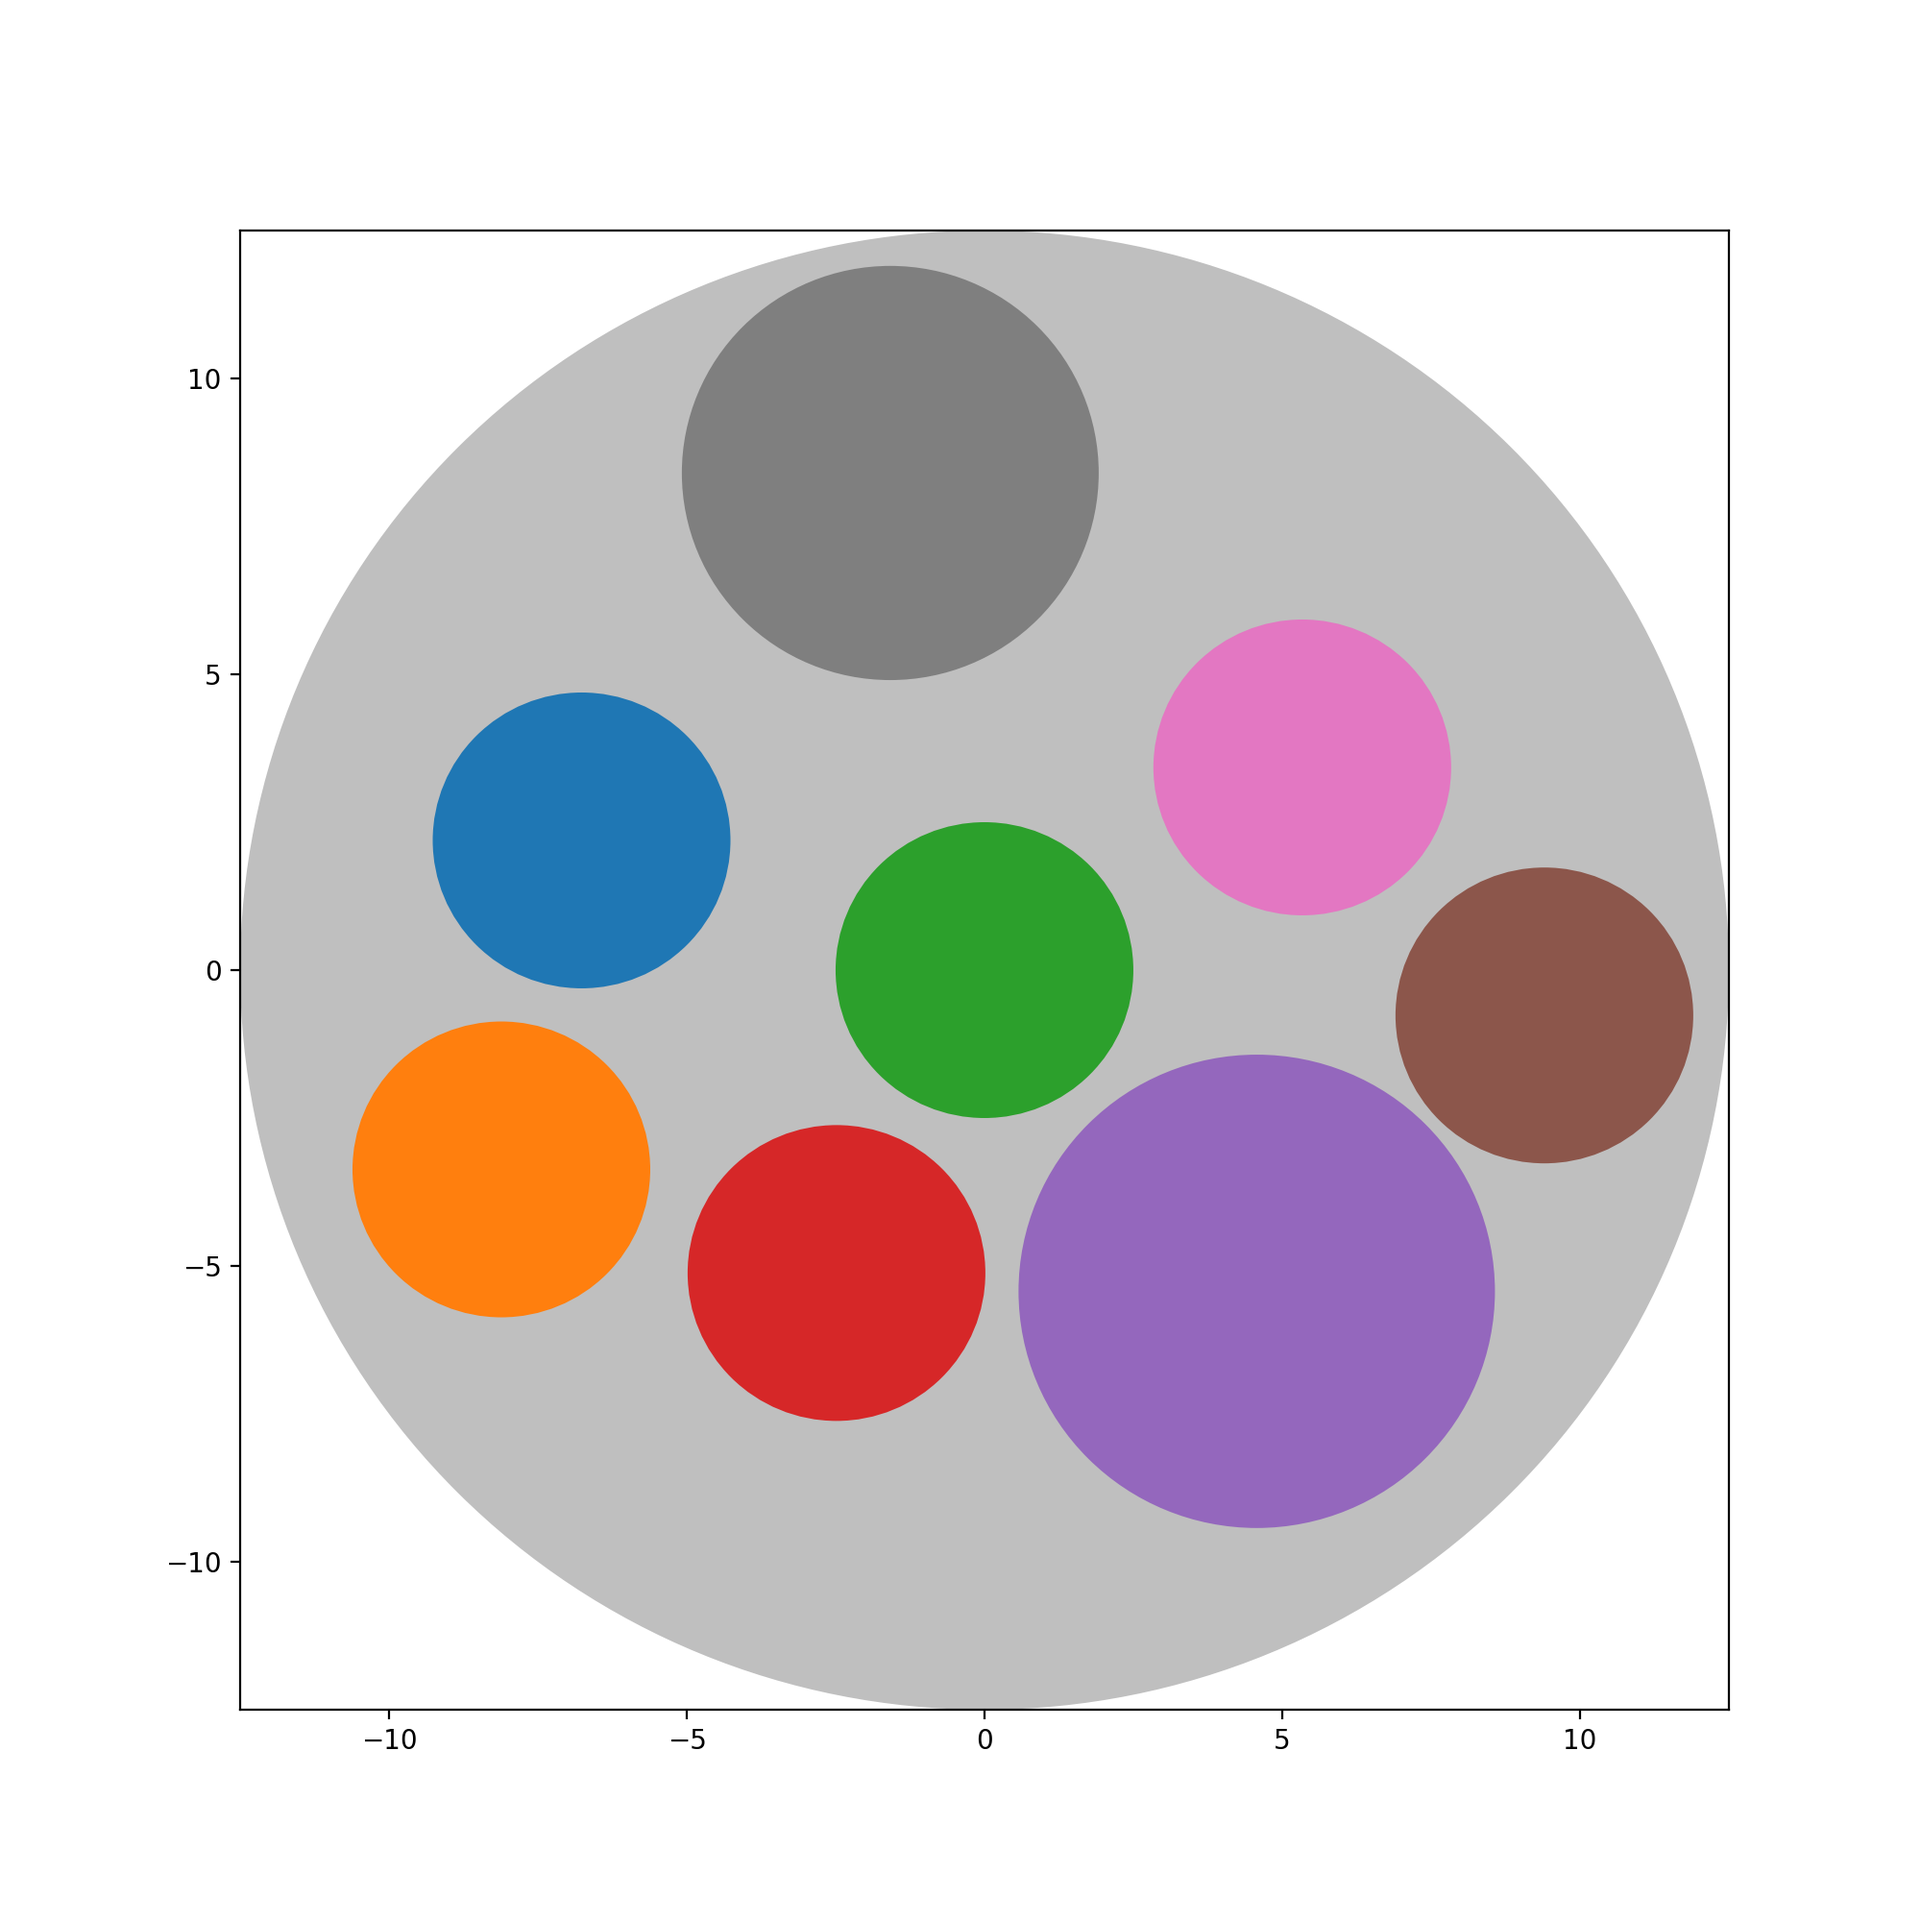
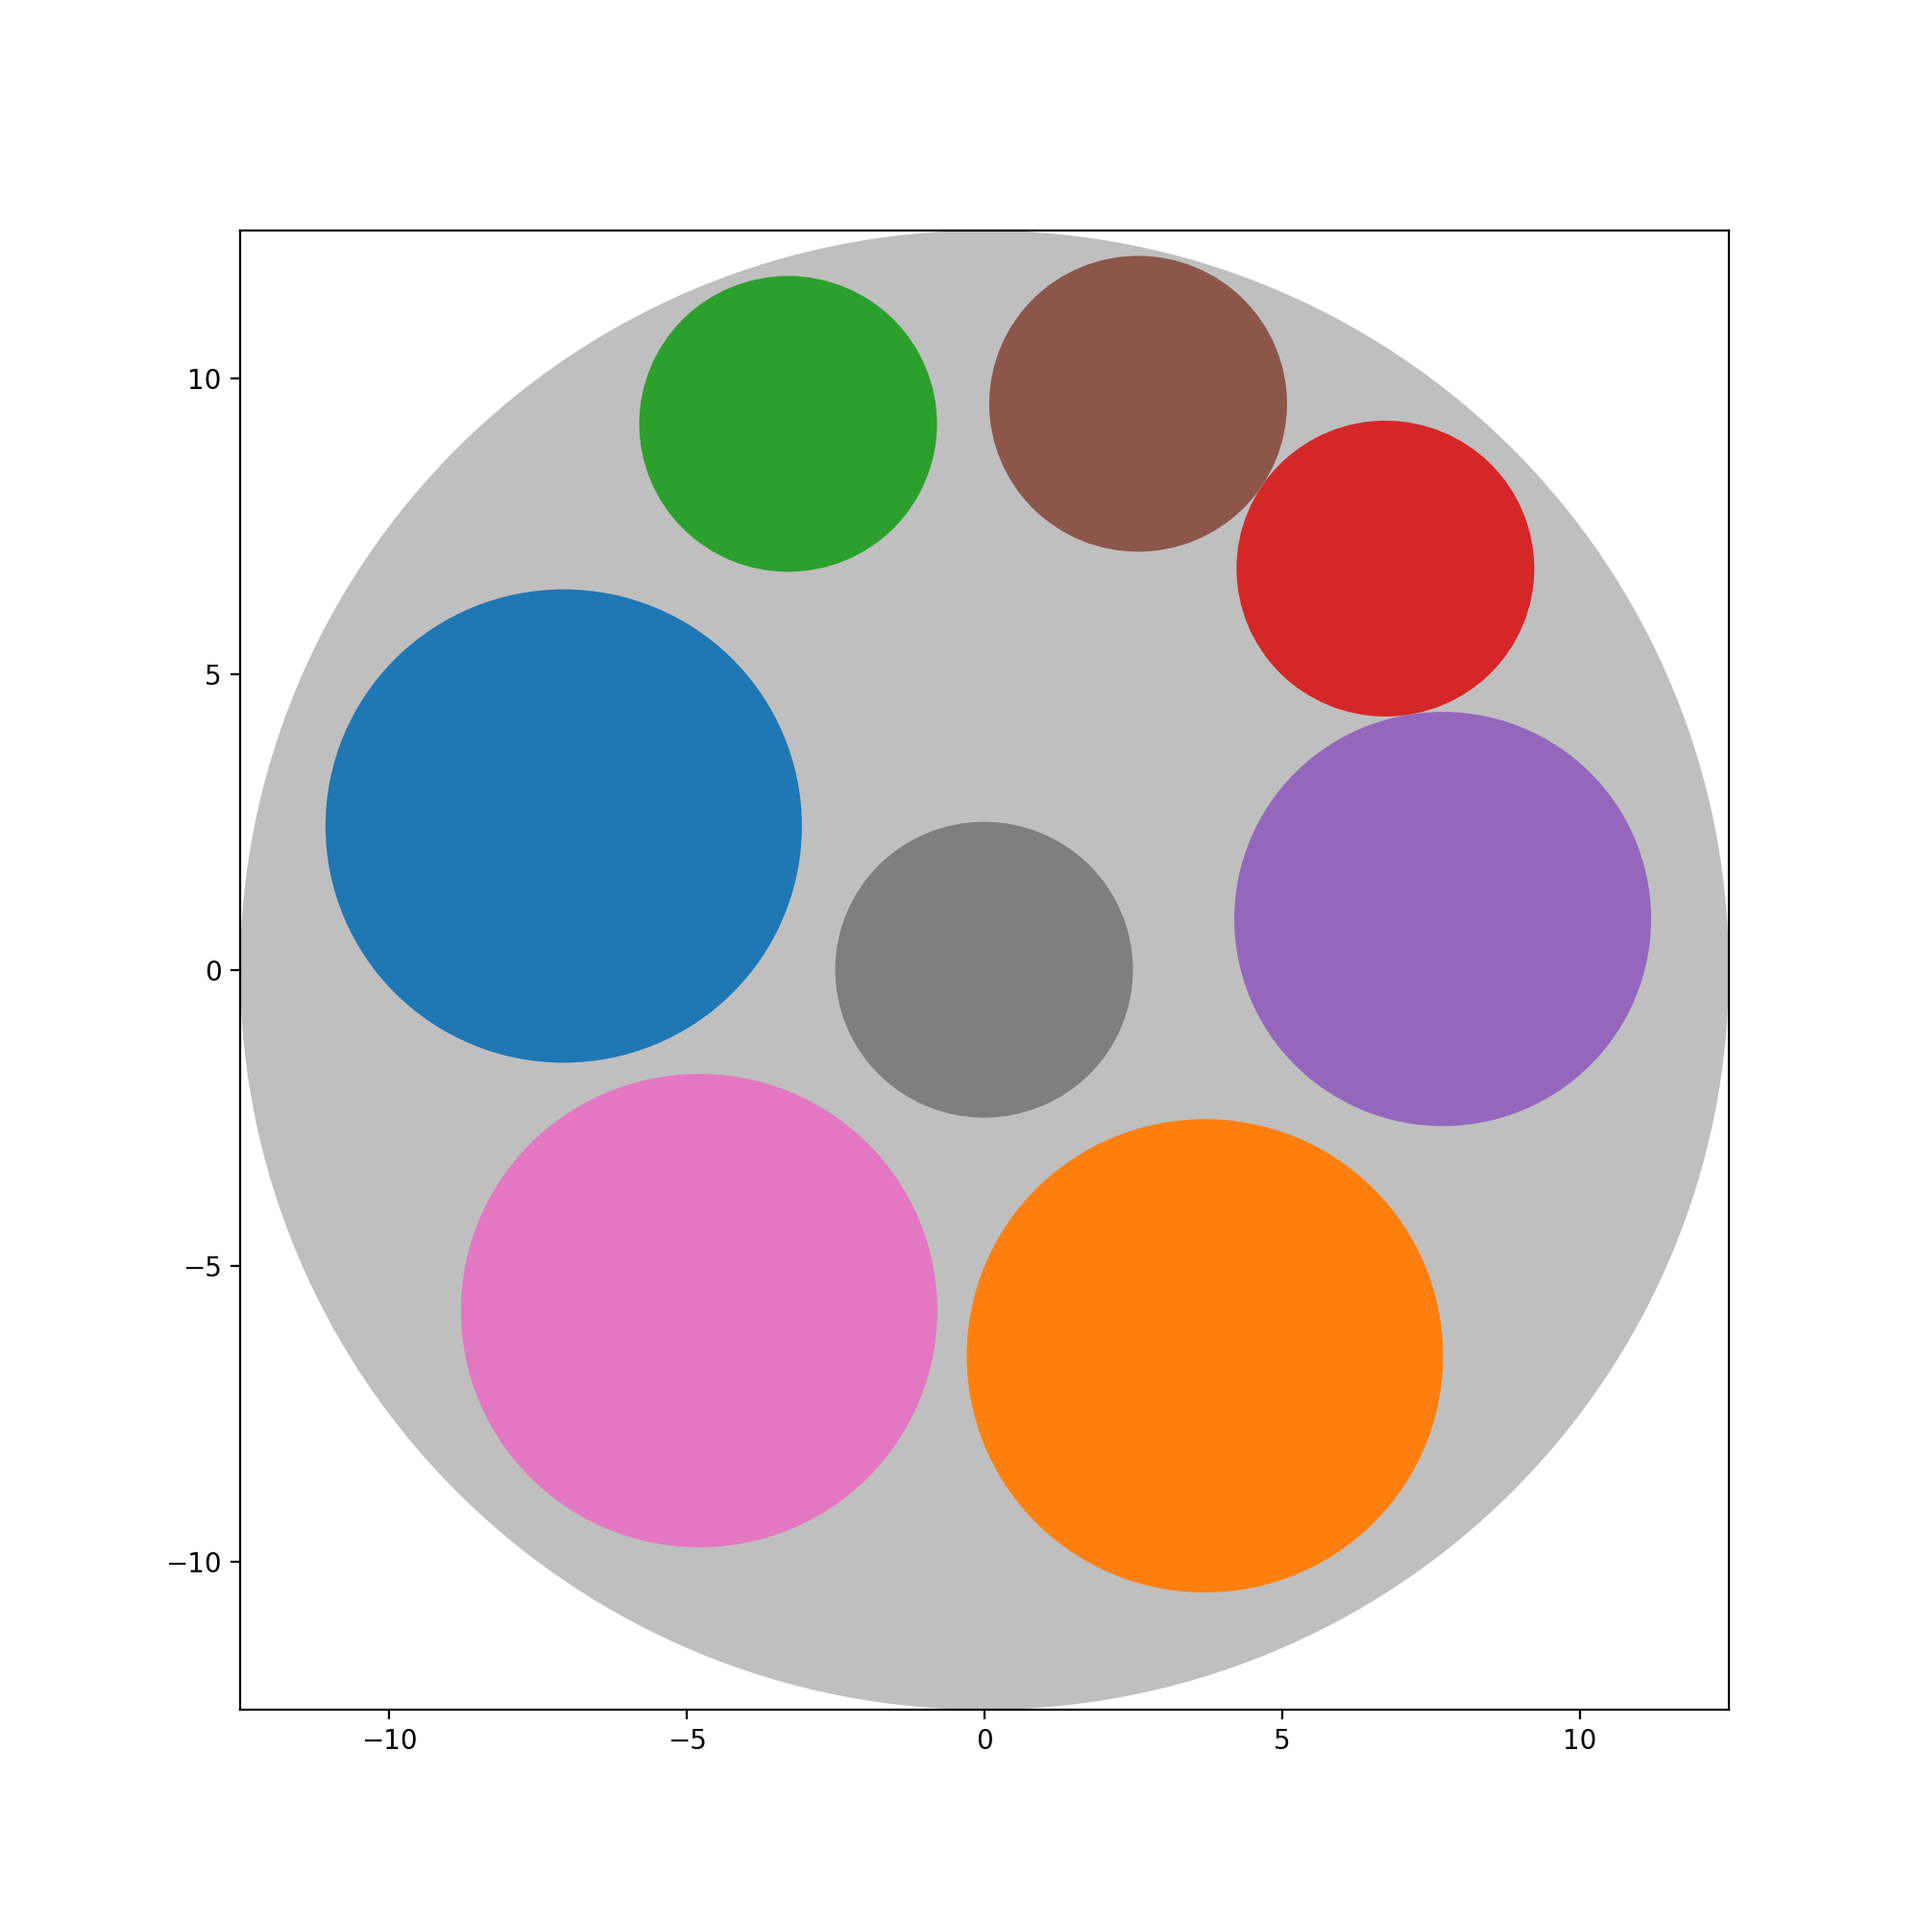
New capillary function

Changed region(s): [[0.155, 0.124, 0.899, 0.837]]

diff --git a/main.py b/main.py
@@ -6,6 +6,10 @@ from matplotlib.patches import Circle
 
 from copy import deepcopy
 
+epsilon = 1e-8
+polar_to_cartesian = lambda r, t: np.array([r*np.cos(t), r*np.sin(t)])
+
+
 class Ring:
 	def __init__(self, outer_diameter, inner_diameter):
 		self.outer_diameter = outer_diameter
@@ -200,7 +204,7 @@ def closest_capillary(index, capillary_list):
 
 def cost_function(outer_capillary, capillary_list):
 	penalty_cost = 1000
-	reward_mult = 70*len(capillary_list)
+	reward_mult = 80*len(capillary_list)
 	cost = 0
 	for i, c in enumerate(capillary_list):
 		cost -= c.ratio*reward_mult
@@ -215,14 +219,16 @@ def cost_function(outer_capillary, capillary_list):
 				cost+=penalty_cost
 	return cost
 
+
 def annealing_packing(outside_diameter, diameter_df, must_have=None,
-					  temp=1e5, min_temp=1e-10, cool_rate=0.999,
+					  temp=1e5, min_temp=1e-10, cool_rate=0.9999,
 					  max_iter=100000, cooling_type='exp'):
 
 	T_start = temp
 
 	diameter_df['Ratio'] = diameter_df['Internal Diameter'] / diameter_df['External Diameter']
 	diameter_df.sort_values(by='Ratio', ascending=False)
+	N_diameters = diameter_df.shape[0]
 
 	lesser_diameter = np.min(diameter_df['External Diameter'])
 	greater_diameter = np.max(diameter_df['External Diameter'])
@@ -247,20 +253,129 @@ def annealing_packing(outside_diameter, diameter_df, must_have=None,
 		return c_list[index]
 			
 	def change_diameter(index, c_list):
-		diameter_index = np.random.randint(len(diameter_df))
+		diameter_index = np.random.randint(N_diameters)
 		c_list[index].inner_diameter = diameter_df.iloc[diameter_index]['Internal Diameter']
 		c_list[index].outer_diameter = diameter_df.iloc[diameter_index]['External Diameter']
 		return c_list[index]
 
 	def new_capillary(c_list):
-		position = random_circular_position(position_diameter)
-		d_index = np.random.randint(len(diameter_df))
-		df_line = diameter_df.iloc[d_index]
+		# The only possible pivot capillary is the outside one
+		if len(c_list) == 0:
+			d_index = np.random.randint(0, N_diameters)
+			df_line = diameter_df.iloc[d_index]
+			angle = np.random.random()*2*np.pi
+			r = 0.5*(outside_diameter - df_line['External Diameter'])
+			position = polar_to_cartesian(r, angle)
+			c = Capillary(position_x=position[0], position_y=position[1],
+						outer_diameter=df_line['External Diameter'], inner_diameter=df_line['Internal Diameter'])
+			c_list.append(c)
+			return True
+
+		good_pivots = False
+		# Tries a limited number of times to find pivots that allow for new capillaries
+		for i in range(20):
+			if good_pivots: break
+
+			# Chooses 2 pivot capillaries for the new one to be tangential to 
+			pivot_indexes = np.random.choice(np.arange(len(c_list)+1), 2, replace=False)
+			# The outer one is special as all capillaries are inside it instead of outside
+			has_outside = len(c_list) in pivot_indexes
+			# Ensures the outside one is on the zero index so we don't need to code both cases
+			if pivot_indexes[1] == len(c_list):
+				pivot_indexes = [pivot_indexes[1], pivot_indexes[0]]
+
+			if has_outside:
+				pivots = [outer_capillary, c_list[pivot_indexes[1]]]
+			else:
+				pivots = [c_list[i] for i in pivot_indexes]
+
+			pivot_distance = np.linalg.norm(pivots[0].position - pivots[1].position)
+			
+			# Handles the case of a capillary in the middle and the outer capillary being chosen together
+			if pivot_distance < epsilon:
+				continue
+
+			if has_outside:
+				pivot_wall_distance = -pivot_distance + 0.5*(outside_diameter - pivots[1].outer_diameter)
+			else:
+				pivot_wall_distance = pivot_distance - 0.5*(pivots[0].outer_diameter + pivots[1].outer_diameter)
+
+			if pivot_wall_distance <= greater_diameter + epsilon:
+				good_pivots = True
+		if not good_pivots:
+			return False
+
+		# Filters only sufficient capillary diameters
+		limited_df = diameter_df[diameter_df['External Diameter'] >= pivot_wall_distance]
+		N_limited_df = limited_df.shape[0]
+
+		d_index_order = np.random.choice(np.arange(N_limited_df), N_limited_df, replace=False)
+		d_index = 0
+		bad_position = True
+		while bad_position:
+			# Fails to add a new capillary for this pivot
+			if d_index >= N_limited_df: return
+
+			df_line = diameter_df.iloc[d_index]
+			out_d = df_line['External Diameter']
+
+			max_pos_r = 0.5*(outside_diameter - out_d)
+
+			R = [0.5*(p.outer_diameter + out_d) for p in pivots]
+			if has_outside:
+				R[0] = 0.5*(outside_diameter - out_d)
+
+			# Calculates the position of intersection for two circles in the X axis
+			#	with the same radii as the pivots+the chosen capillary
+			x_prime2 = (pivot_distance**2 - R[1]**2 + R[0]**2) / (2*pivot_distance)
+			y_prime2_squared = R[0]**2 - x_prime2**2 + epsilon
+
+			x_prime2 = np.ones(2)*x_prime2
+			try:
+				y_prime2 = np.array([ np.sqrt(y_prime2_squared), -np.sqrt(y_prime2_squared) ], dtype=float)
+			except(e):
+				print(f"y_prime2_squared: {y_prime2_squared}\nx_prime2: {x_prime2}")
+				y_prime2 = np.array([ np.sqrt(y_prime2_squared), -np.sqrt(y_prime2_squared) ], dtype=float)
+
+			positions_prime2 = [x_prime2, y_prime2]
+
+			del y_prime2_squared
+
+			# Rotates the axis such that pivot 0 is still the origin, but pivot 1 has the correct angle with pivot 0
+			pos1_prime = pivots[1].position - pivots[0].position
+			c = pos1_prime[0] / np.linalg.norm(pos1_prime)
+			angle_prime = np.arccos( c )
+			s = np.sin(angle_prime)
+			rot_matrix = [[c, -s], [s, c]]
+			positions_prime = np.matmul(rot_matrix, positions_prime2)
+
+			del positions_prime2, rot_matrix, angle_prime, c, s, pos1_prime
+
+			# Adds the pivot 0 position back, so that the calculated positions
+			# 	are now in the main frame of reference
+			positions = np.transpose(positions_prime) + np.array([pivots[0].position, pivots[0].position])
+
+			del positions_prime
+
+			# Checks if they are usable (inside the main capillary)
+			usable_positions = positions[np.linalg.norm(positions, axis=1) <= max_pos_r+epsilon]
+			if len(usable_positions) < 1:
+				# print("positions:")
+				# print(positions)
+				# print(np.linalg.norm(positions, axis=1))
+				# print(out_d)
+				d_index += 1
+				continue
+			
+			# Chooses one of the possible positions at random
+			position = usable_positions[np.random.randint(len(usable_positions))]
+			bad_position = False
+
 		c = Capillary(position_x=position[0], position_y=position[1],
 					  outer_diameter=df_line['External Diameter'], inner_diameter=df_line['Internal Diameter'])
 		c_list.append(c)
 
-		return c
+		return True
 		
 
 	best_solution = capillary_list
@@ -274,10 +389,9 @@ def annealing_packing(outside_diameter, diameter_df, must_have=None,
 		p = np.random.random()
 		if (p < 0.25 or len(temp_list) < min_N) and len(temp_list) < max_N:
 			prev_len = len(temp_list)
-			new_capillary(temp_list)
-			if len(temp_list) > prev_len+1:
-				print("Appended twice")
-				exit()
+			appended = new_capillary(temp_list)
+			# if appended:
+			# 	print("New capillary!")
 		elif p < 0.5:
 			index = np.random.randint(must_have_N, len(temp_list))
 			temp_list.pop(index)
@@ -316,6 +430,7 @@ def annealing_packing(outside_diameter, diameter_df, must_have=None,
 		else:
 			raise(ValueError("Incorret cooling type."))
 		if temp < min_temp:
+			print("Stopped from temperature.")
 			break
 
 	return best_solution
